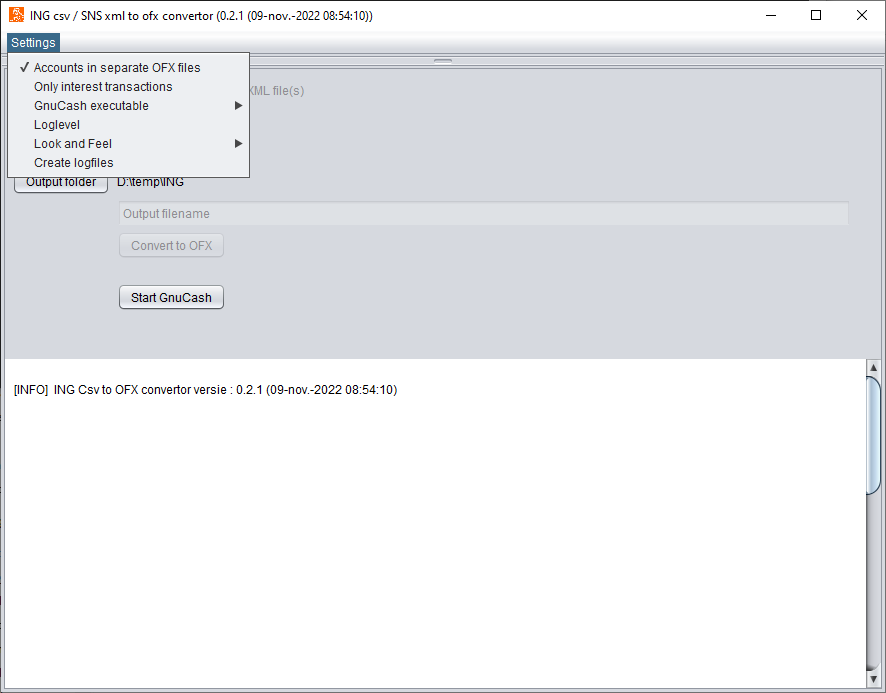
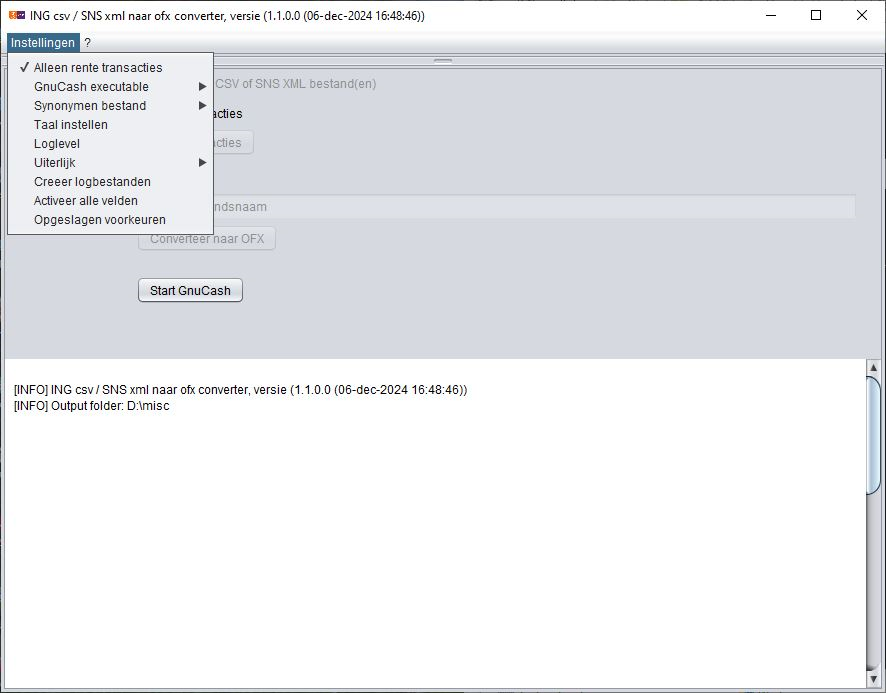
Update readme and translations

Changed region(s): [[0.0, 0.0, 0.4876, 0.3636], [0.0, 0.5455, 0.5181, 0.6061], [0.1219, 0.3939, 0.2743, 0.4545]]

diff --git a/help/nl/synonyms.htm b/help/nl/synonyms.htm
@@ -12,24 +12,25 @@
   <body>
     <h1 class="topicheading">Synonyms</h1>
     <div class="topicbody"> 
-      <p>An administration may have multiple bank accounts, and an input file may contain transactions for multiple accounts or administrations.</p>
-      <p>To determine for which account an OFX file is meant, a mechanism is available that is configured with a CSV file in the following format:</p>
+      <p>Een transactiebestand kan transacties van meerdere bankrekeningen bevatten die wordden verwerkt in verschillende administraties.</p>
+      <p>Om een onderscheid te maken welke rekening in welke administratie wordt verwerkt, is een mechanisme beschikbaar die wordt geconfigureerd door middel van een csv bestand.</p>
+      <p>Het bestand heeft het volgende formaat:</p>
 <pre>
 <code>
-      Seq; AccountNr        ; Prefix
-       1 ; NLIyyINGBxxxxxxx ; Monkey
-       2 ; NLzzSNSBnnnnnnn  ; Nuts
+      Seq; RekeningNr       ; Prefix
+       1 ; NLIyyINGBxxxxxxx ; Aap
+       2 ; NLzzSNSBnnnnnnn  ; Noot
        ......
 </code>
 </pre>
-      <p>This results in the following filenames (see <a href="Filenames.htm">Filename convention</a>):</p>
+      <p>Dit resulteert in de volgende bestandsnamen(zie ook <a href="Filenames.htm">Bestandsnaam conventie</a>):</p>
  <pre>
 <code>  
-   Monkey_NLIyyINGBxxxxxxx_&lt;InputFilename&gt;.ofx
-   Nuts_NLzzSNSBnnnnnnn_&lt;InputFilename&gt;.ofx
+   Aap_NLIyyINGBxxxxxxx_&lt;InputFilename&gt;.ofx
+   Noot_NLzzSNSBnnnnnnn_&lt;InputFilename&gt;.ofx
 </code>
 </pre> 
-      The prefix may indicate the administration where the account is accounted for.
+      Het voorvoegsel is een indicatie die verwijst naar de administratie waar de rekening transacties worden verwerkt.
     </div>
   </body>
 </html>

diff --git a/help/en/synonyms.htm b/help/en/synonyms.htm
@@ -17,16 +17,16 @@
 <pre>
 <code>
       Seq; AccountNr        ; Prefix
-       1 ; NLIyyINGBxxxxxxx ; Monkey
-       2 ; NLzzSNSBnnnnnnn  ; Nuts
+       1 ; NLIyyINGBxxxxxxx ; Home
+       2 ; NLzzSNSBnnnnnnn  ; Business
        ......
 </code>
 </pre>
       <p>This results in the following filenames (see <a href="Filenames.htm">Filename convention</a>):</p>
  <pre>
 <code>  
-   Monkey_NLIyyINGBxxxxxxx_&lt;InputFilename&gt;.ofx
-   Nuts_NLzzSNSBnnnnnnn_&lt;InputFilename&gt;.ofx
+   Home_NLIyyINGBxxxxxxx_&lt;InputFilename&gt;.ofx
+   Business_NLzzSNSBnnnnnnn_&lt;InputFilename&gt;.ofx
 </code>
 </pre> 
       The prefix may indicate the administration where the account is accounted for.

diff --git a/src/main/java/kwee/ing2ofx/gui/GUILayout.java b/src/main/java/kwee/ing2ofx/gui/GUILayout.java
@@ -71,7 +71,7 @@ import kwee.library.swing.TextAreaHandler;
 public class GUILayout extends JPanel implements ItemListener {
   private static final Logger LOGGER = Logger.getLogger(Class.class.getName());
   private static final long serialVersionUID = 1L;
-  static final String c_CopyrightYear = "2023";
+  static final String c_CopyrightYear = "2025";
   static final String c_repoName = "Ing2Ofx";
   public static final Object lock = new Object();
 
@@ -269,7 +269,12 @@ public class GUILayout extends JPanel implements ItemListener {
     mnSettings.add(mnSynonym);
 
     String l_Synonyme = bundle.getMessage("SynonymFileQuestion");
-    File l_Synonym_file = new File(m_param.get_Synonym_file());
+    String l_SynFileName = "";
+    if (m_param.get_Synonym_file() != null) {
+      l_SynFileName = m_param.get_Synonym_file();
+    }
+
+    File l_Synonym_file = new File(l_SynFileName);
     if (l_Synonym_file.exists()) {
       l_Synonyme = l_Synonym_file.getAbsolutePath();
     }
@@ -284,13 +289,28 @@ public class GUILayout extends JPanel implements ItemListener {
         fileChooser.setSelectedFile(l_Synonym_file);
         FileFilter filter = new FileNameExtensionFilter("TXT File", "txt");
         fileChooser.setFileFilter(filter);
+
+        // Extra knop toevoegen voor "Geen bestand"
+        fileChooser.setAccessory(new JButton("Geen bestand"));
+        JButton btnNoFile = new JButton("Geen bestand");
+        btnNoFile.addActionListener(ev -> {
+          fileChooser.setSelectedFile(null);
+          fileChooser.approveSelection();
+        });
+        fileChooser.setAccessory(btnNoFile);
+
         int option = fileChooser.showOpenDialog(GUILayout.this);
         if (option == JFileChooser.APPROVE_OPTION) {
           File file = fileChooser.getSelectedFile();
-          LOGGER.log(Level.INFO, bundle.getMessage("SynonymFileSelected", file.getAbsolutePath()));
-          File l_Synonym_file = file;
-          m_param.set_Synonym_file(l_Synonym_file);
-          mntmSynonym.setText(l_Synonym_file.getAbsolutePath());
+          if (file == null) {
+            LOGGER.log(Level.INFO, bundle.getMessage("NoSynonymFileSelected"));
+            m_param.set_Synonym_file(new File(""));
+            mntmSynonym.setText("Geen bestand gekozen");
+          } else {
+            LOGGER.log(Level.INFO, bundle.getMessage("SynonymFileSelected", file.getAbsolutePath()));
+            m_param.set_Synonym_file(file);
+            mntmSynonym.setText(file.getAbsolutePath());
+          }
         }
       }
     });

diff --git a/src/main/java/kwee/ing2ofx/main/UserSetting.java b/src/main/java/kwee/ing2ofx/main/UserSetting.java
@@ -109,9 +109,8 @@ public class UserSetting {
     m_GnuCashExecutable = pref.get(c_GnuCashExe, c_GnuCashExeValue);
     m_OutputFolder = pref.get(c_OutputFolder, "");
     m_Synonym_file = pref.get(c_Synonym_file, "");
-    if (!m_Synonym_file.isBlank()) {
-      m_Synonyms = new Synonyms(new File(m_Synonym_file));
-    }
+    m_Synonyms = new Synonyms(new File(m_Synonym_file));
+
     m_Language = pref.get(c_Language, "nl");
 
     String l_CsvFiles = pref.get(c_CsvFiles, "");

diff --git a/src/main/java/kwee/ofxLibrary/Synonyms.java b/src/main/java/kwee/ofxLibrary/Synonyms.java
@@ -67,7 +67,8 @@ public class Synonyms {
         }
       });
     } catch (IOException e) {
-      LOGGER.log(Level.SEVERE, Class.class.getName() + ": " + e.getMessage());
+      LOGGER.log(Level.INFO, "No synonym file");
+      // LOGGER.log(Level.SEVERE, Class.class.getName() + ": " + e.getMessage());
     }
   }
 

diff --git a/readme.md b/readme.md
@@ -1,5 +1,5 @@
 # Introduction
-The intent of this (java) application  is to convert ING (www.ing.nl) csv- or SNS (www.snsbank.nl) xml-files to ofx files that can be read by a program like GnuCash (www.gucash.org).
+The intent of this (java) application  is to convert ING (www.ing.nl) csv- or SNS (www.snsbank.nl) xml-files to ofx files that can be read by a program like GnuCash (http://www.gnucash.org).
 
 The origin is a Python script which can be found on Github:  https://github.com/chmistry/ing2ofx/releases.
 The original script needed some modifications due to a new Python version and some changes in the ING CSV format.
@@ -13,12 +13,10 @@ A tutorial on how to keep your bank records in GnuCash can be read on:
 http://www.chmistry.nl/financien/beginnen-met-boekhouden-in-gnucash/
 
 # Installation
-The following Windows installation kits are available:
+The following Windows installation kit is available:
 - ing2ofx_v0.x.y.z_jre_setup.exe
-- ing2ofx_v0.x.y.z_jreDownload_setup.exe
 
-The first kit has a JRE onboard.
-The second kit downloads a JRE, if needed.
+The kit has a JRE onboard.
 
 # Opening menu
 When running the application (Windows excutable or Java jar-file) the following menu is shown:
@@ -60,5 +58,18 @@ For the transaction fitting the following rules are used:
 - Sum of amounts is zero.
 
 # Synonym
-The generated files are getting a prefix accordenly the synonym.
-.....
+An administration may have multiple bank accounts, and an input file may contain transactions for multiple accounts or administrations.
+To determine for which account an OFX file is meant, a mechanism is available that is configured with a CSV file in the following format:
+
+      Seq; AccountNr        ; Prefix
+       1 ; NLIyyINGBxxxxxxx ; Home
+       2 ; NLzzSNSBnnnnnnn  ; Business
+       ......
+
+This results in the following filenames:
+
+   Home_NLIyyINGBxxxxxxx_&lt;InputFilename&gt;.ofx
+   Business_NLzzSNSBnnnnnnn_&lt;InputFilename&gt;.ofx
+
+The prefix may indicate the administration where the account is accounted for.
+
